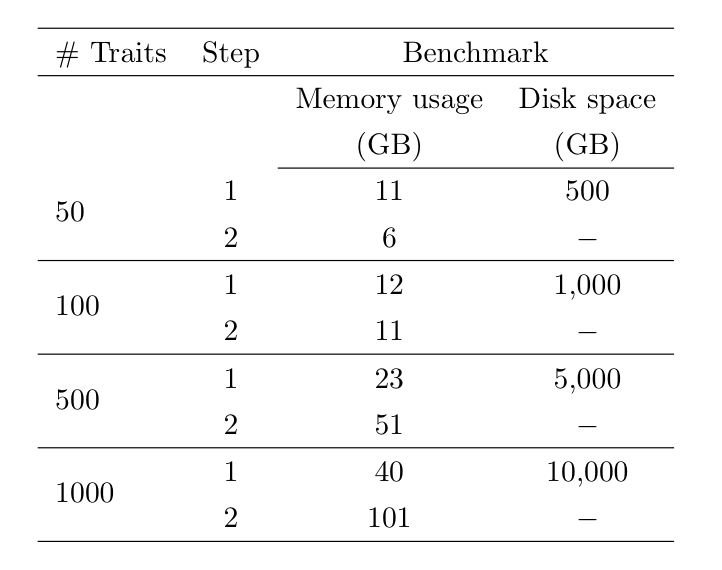
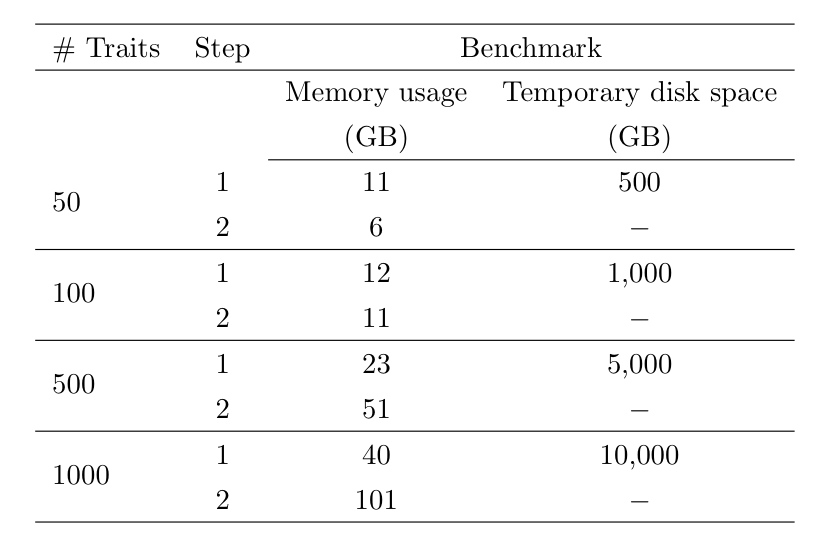
Deployed 031cff2 with MkDocs version: 1.0.4

diff --git a/recommendations/index.html b/recommendations/index.html
@@ -147,18 +147,19 @@ where records are available for thousands of phenotypes.</p>
 <h3 id="pre-processing">Pre-processing</h3>
 <p>We will first go over important steps to consider before running <strong>regenie</strong>.</p>
 <h4 id="selection-of-traits">Selection of traits</h4>
-<p><strong>regenie</strong> can perform whole genome regression on multiple traits at once and this is where
-higher computational gains are obtained.
-As different traits can have distinct missing patterns, <strong>regenie</strong> uses an imputation scheme
-to handle missing data, and real data applications have shown that it gives
-nearly identical results as discarding missing observations when analyzing each trait 
-separately. </p>
-<p>Hence, we recommend to analyze traits in groups that have similar missingness patterns.
-We are working on releasing a tool that generate these groupings to facilitate this step.</p>
+<p><strong>regenie</strong> can perform whole genome regression on multiple traits at once which is where
+higher computational gains are obtained.</p>
+<p>As different traits can have distinct missing patterns, <strong>regenie</strong> uses an imputation scheme
+to handle missing data.
+From the real data applications we have performed so far with traits having up to ~20% (for quantitative) and ~5% (for binary) missing observations, our imputation scheme resulted in 
+nearly identical results as from discarding missing observations when analyzing each trait 
+separately (see BioRxiv paper for details). 
+Hence, we recommend to analyze traits in groups that have similar missingness patterns with at most 20% missingness.</p>
 <p>The number of phenotypes in a group will affect the computational resources required
 and the table below shows typical computational requirements based on using 
 500,000 markers in step 1 split in blocks of 1000 and using blocks of size 200 when 
-testing SNPs in step 2. </p>
+testing SNPs in step 2. The results are shown when step 1 of <strong>regenie</strong> is run in low-memory mode so that within-block predictions are temporarily stored on disk (see Documentation).</p>
+<p><img alt="Rflow" src="../img/large_timing.png" style="text-align:center;padding: 10px;width:50%;display: block;margin-left: auto;margin-right: auto" /></p>
 <h4 id="preparing-genotype-file">Preparing genotype file</h4>
 <h4 id="exclusion-files">Exclusion files</h4>
 <h3 id="step-1">Step 1</h3>

diff --git a/index.html b/index.html
@@ -282,5 +282,5 @@ autoNumber: "AMS"
 
 <!--
 MkDocs version : 1.0.4
-Build Date UTC : 2020-06-18 18:13:07
+Build Date UTC : 2020-06-18 18:55:48
 -->
